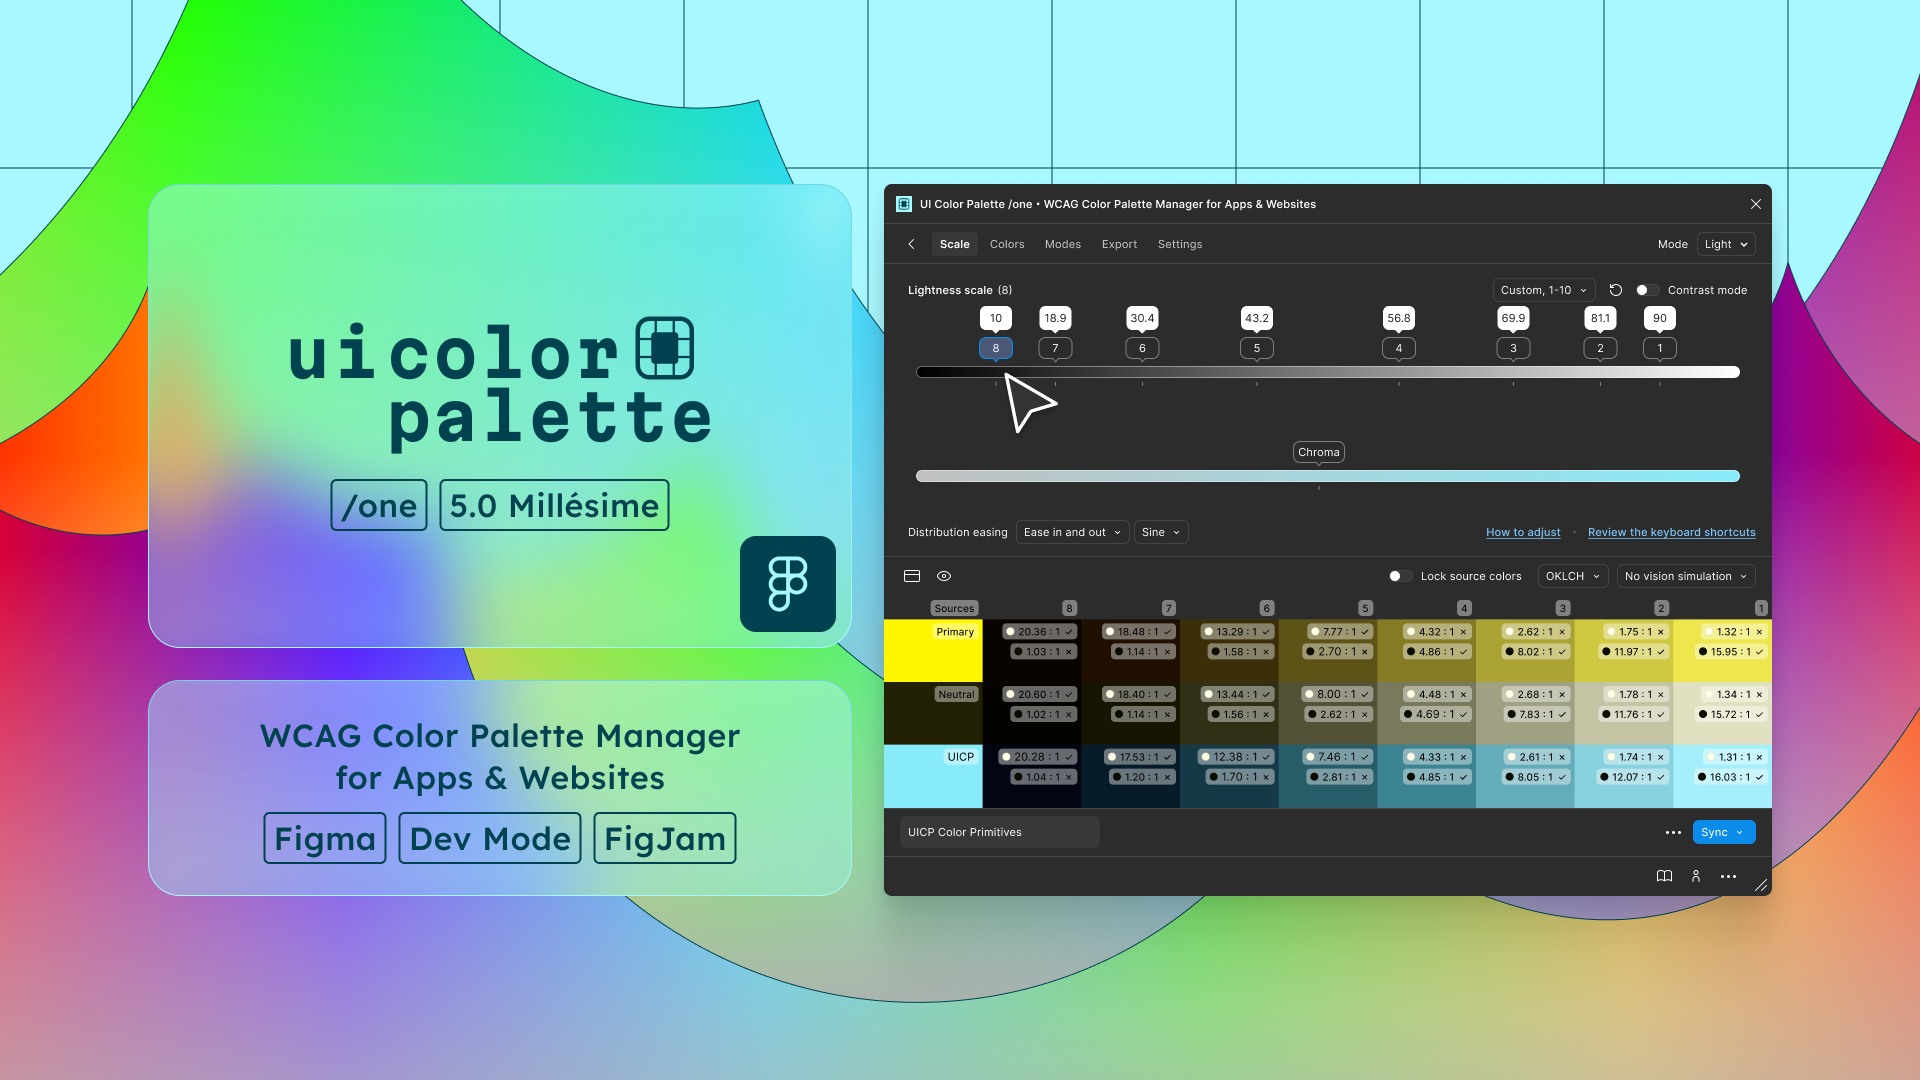
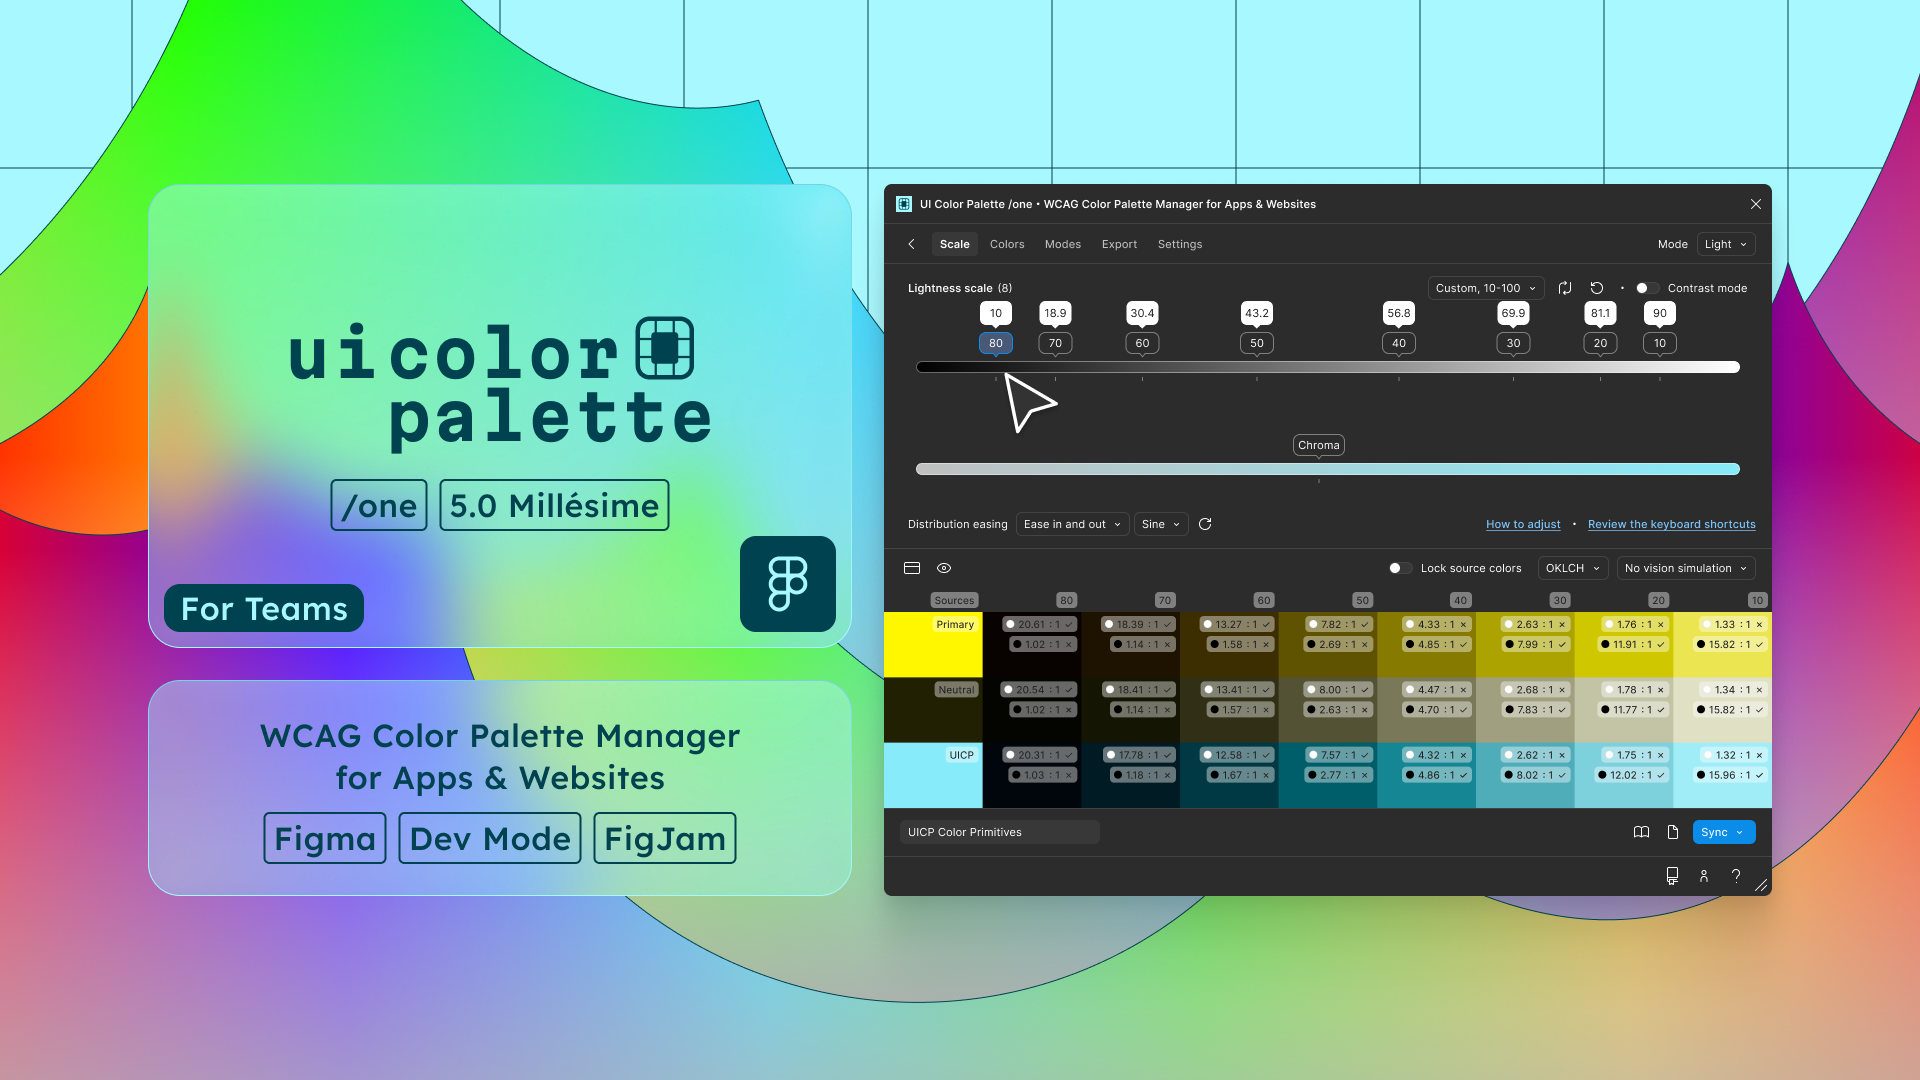
GITBOOK-68: v5.0.4

diff --git a/figma/guides/generate-a-color-palette-documentation.md b/figma/guides/generate-a-color-palette-documentation.md
@@ -11,8 +11,6 @@ icon: file-lines
 {% step %}
 ## Generate a document of the palette
 
-<figure><img src="../.gitbook/assets/uicp-docs-figma-generate_document.png" alt=""><figcaption></figcaption></figure>
-
 Once the palette is finished, you can generate complete documentation of every shade and tint. Click the <i class="fa-ellipsis">:ellipsis:</i> icon in the bottom bar, then select `Generate a document` to access the available document types.
 
 {% hint style="info" %}
@@ -52,8 +50,6 @@ The palette will be named as referred:
 {% step %}
 ## Update a document if the palette has been too
 
-<figure><img src="../.gitbook/assets/uicp-docs-figma-update_document.png" alt=""><figcaption></figcaption></figure>
-
 Once you update your palette, click the <i class="fa-ellipsis">:ellipsis:</i> icon in the bottom bar, then `Push updates to the document`. The document will receive the updated metadata, shades, and tints.
 
 {% hint style="info" %}
@@ -64,15 +60,11 @@ Each time you update, each time you store an updated backup.
 {% step %}
 ## Update the document layout
 
-<figure><img src="../.gitbook/assets/uicp-docs-figma-update_layout.png" alt=""><figcaption></figcaption></figure>
-
 When a document is selected on the canvas and recognized as a "UI Color Palette", you can choose another layout of the list of 3 types (see [Generate a document of the palette](generate-a-color-palette-documentation.md#generate-a-document-of-the-palette)). Once selected, the document will transform its layout.&#x20;
 {% endstep %}
 
 {% step %}
 ## Open a palette from a select document
-
-<figure><img src="../.gitbook/assets/uicp-docs-figma-open_document.png" alt=""><figcaption></figcaption></figure>
 
 When a document is selected on the canvas and recognized as a "UI Color Palette", the controller allows you to access the related palette by clicking the `Open document` button.
 
@@ -83,8 +75,6 @@ Keep in mind, this is a shortcut because a document is an instance of the palett
 
 {% step %}
 ## Restore a palette
-
-<figure><img src="../.gitbook/assets/uicp-docs-figma-restore_palette.png" alt=""><figcaption></figcaption></figure>
 
 When a document is selected on the canvas and recognized as a "UI Color Palette", but the `Local Master` palette has not been found on the current page, you can store the palette from a backup stored in the document by clicking the `Restore palette` button.
 {% endstep %}

diff --git a/figma/README.md b/figma/README.md
@@ -17,6 +17,14 @@ This plugin will allow you to:
 * Generate code in various languages
 * Publish the palette for reuse across multiple documents or add shared palettes from the community
 
-For a quick start, you can refer to these pages:
+{% hint style="info" %}
+If you use the plugin in the Dev mode or the VS Code plugin, you must ask a designer to create the palettes on the current page. [Learn more about the plugin capabilities](introduction/plugin-capabilities-on-figma-products.md).
+{% endhint %}
+
+For a quick start, you can refer to this demo:
+
+{% embed url="https://app.supademo.com/demo/cmfgpta8gc8ei39ozrkk60sbq" %}
+
+And these pages:
 
 <table data-view="cards"><thead><tr><th></th><th data-hidden data-card-cover data-type="files"></th><th data-hidden data-card-target data-type="content-ref"></th></tr></thead><tbody><tr><td>How to select source colors</td><td><a href=".gitbook/assets/quick_start-source_colors.png">quick_start-source_colors.png</a></td><td><a href="guides/create-a-color-palette.md#select-and-or-import-the-source-colors">#select-and-or-import-the-source-colors</a></td></tr><tr><td>How to scale colors</td><td><a href=".gitbook/assets/quick_start-color_scaling.png">quick_start-color_scaling.png</a></td><td><a href="guides/create-a-color-palette.md#adjust-the-lightness-scale">#adjust-the-lightness-scale</a></td></tr><tr><td>How to change source colors</td><td><a href=".gitbook/assets/quick_start-change_source_colors.png">quick_start-change_source_colors.png</a></td><td><a href="guides/manage-a-color-palette.md#change-the-source-colors">#change-the-source-colors</a></td></tr><tr><td>How to create styles</td><td><a href=".gitbook/assets/quick_start-change_styles.png">quick_start-change_styles.png</a></td><td><a href="guides/sync-a-color-palette-to-the-local-library.md#sync-to-the-local-styles">#sync-to-the-local-styles</a></td></tr><tr><td>How to create variables</td><td><a href=".gitbook/assets/quick_start-variables.png">quick_start-variables.png</a></td><td><a href="guides/sync-a-color-palette-to-the-local-library.md#sync-to-the-local-variables">#sync-to-the-local-variables</a></td></tr><tr><td>How to generate code</td><td><a href=".gitbook/assets/quick_start-code_gen.png">quick_start-code_gen.png</a></td><td><a href="guides/export-a-color-palette-to-code.md">export-a-color-palette-to-code.md</a></td></tr></tbody></table>

diff --git a/figma/guides/create-a-color-palette.md b/figma/guides/create-a-color-palette.md
@@ -20,7 +20,9 @@ You can select and import up to 5 colors on the <mark style="color:yellow;">`/ba
 
 ### Select colors from the document canvas
 
-Select one or more filled layers. You might rename these layers because the palette will use the layer name as a color name.&#x20;
+Select one or more filled layers. You might rename these layers because the palette will use the layer name as a color name.
+
+If no color is selected or imported, a default color is set and can be named and edited.
 
 {% hint style="info" %}
 Only frames, shapes are allowed to be turned into source colors if they have at least a solid color as `Fill`.
@@ -87,6 +89,8 @@ Update a stop by sliding its knob on the range. You can slide every knob by usin
 
 * <kbd>Cmd ⌘</kbd> (macOS) or <kbd>Ctrl ⌃</kbd> (Windows/Linux) while sliding any knob to move each of them in the desired direction
 * <kbd>Shift ⇪</kbd> while sliding the first or the last stop to distribute each of them equally on the range
+* <i class="fa-arrow-right-arrow-left">:arrow-right-arrow-left:</i> button to reverse the stops
+* <i class="fa-arrow-rotate-left">:arrow-rotate-left:</i> button to reset to the default scale
 
 In addition, you can adjust the `Chroma` of every scaled color from 0% (unsaturated) to 200% (oversaturated).
 
@@ -133,6 +137,10 @@ The easings are varied in three ways:
 * `Sine`
 * `Regular`
 * `Cubic`
+
+{% hint style="info" %}
+You can apply the distribution directly on the current scale by clicking the <i class="fa-arrow-rotate-right">:arrow-rotate-right:</i> button.
+{% endhint %}
 {% endstep %}
 
 {% step %}
